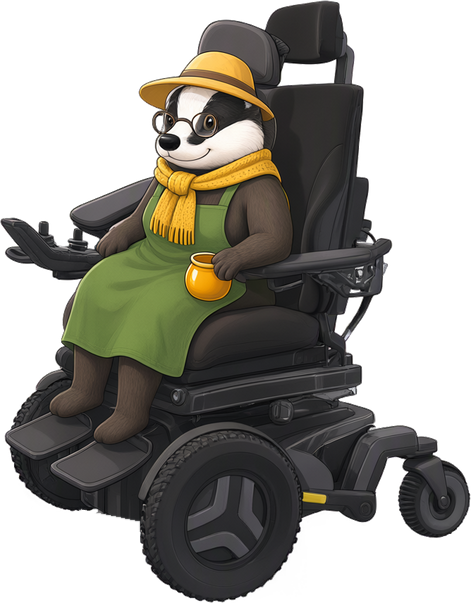
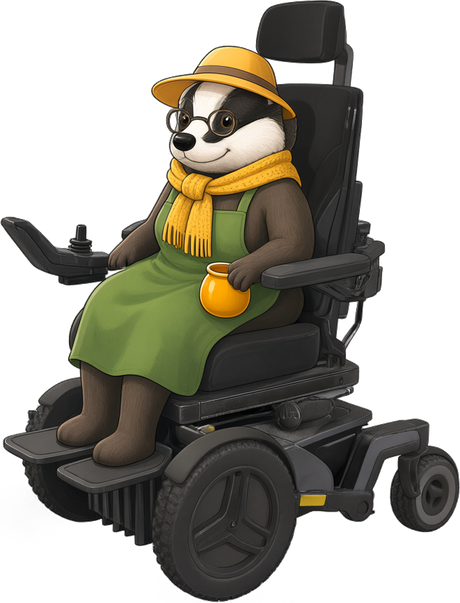
Матильда: перегенерирована с 3D без антиопрокидывателей — одна ручка джойстика, две подножки

diff --git a/art_tests/blender_render.py b/art_tests/blender_render.py
@@ -69,28 +69,40 @@ def import_glb(path, M, recolor=None):
 
 
 def move_parts(moves):
-    """Сдвиг части оригинальной модели (напр. подножка выше под короткие ноги): вершины с x, y (мм игры) в зоне,
-    кроме тех, что в круге колеса (not_wheel = cx, cy, R, |z| от), едут на d (мм игры)."""
+    """Сдвиг части оригинальной модели (напр. подножка выше под короткие ноги): вершины с x, y (мм игры) в зоне
+    (и |z| в az, если задано), кроме тех, что в круге колеса (not_wheel = cx, cy, R, |z| от), едут на d (мм игры);
+    delete=True — вершины зоны удаляются (напр. антиопрокидыватель). Порядок — как в списке."""
+    import bmesh
     for o in [o for o in sc.objects if o.type == "MESH"]:
         mw = o.matrix_world
-        n = len(o.data.vertices)
-        co = np.empty(n * 3)
-        o.data.vertices.foreach_get("co", co)
-        loc = np.c_[co.reshape(-1, 3), np.ones(n)]
-        w = loc @ np.asarray(mw).T
-        x, y, z = w[:, 0] * 1000, w[:, 2] * 1000, -w[:, 1] * 1000
         for mv in moves:
+            n = len(o.data.vertices)
+            co = np.empty(n * 3)
+            o.data.vertices.foreach_get("co", co)
+            w = np.c_[co.reshape(-1, 3), np.ones(n)] @ np.asarray(mw).T
+            x, y, z = w[:, 0] * 1000, w[:, 2] * 1000, -w[:, 1] * 1000
             sel = (x >= mv["x"][0]) & (x <= mv["x"][1]) & (y >= mv["y"][0]) & (y <= mv["y"][1])
+            if mv.get("az"):
+                sel &= (np.abs(z) >= mv["az"][0]) & (np.abs(z) <= mv["az"][1])
             if mv.get("not_wheel"):
                 cx, cy, R, zw = mv["not_wheel"]
                 sel &= ~((np.hypot(x - cx, y - cy) < R) & (np.abs(z) > zw))
+            if mv.get("delete"):
+                bm = bmesh.new()
+                bm.from_mesh(o.data)
+                bm.verts.ensure_lookup_table()
+                bmesh.ops.delete(bm, geom=[bm.verts[i] for i in np.nonzero(sel)[0]], context="VERTS")
+                bm.to_mesh(o.data)
+                bm.free()
+                print("удалено вершин:", int(sel.sum()), o.name)
+                continue
             dx, dy, dz = mv["d"]
             w[sel, 0] += dx / 1000
             w[sel, 1] -= dz / 1000
             w[sel, 2] += dy / 1000
             print("сдвинуто вершин:", int(sel.sum()), o.name)
-        new = w @ np.asarray(mw.inverted()).T
-        o.data.vertices.foreach_set("co", new[:, :3].ravel())
+            new = w @ np.asarray(mw.inverted()).T
+            o.data.vertices.foreach_set("co", new[:, :3].ravel())
         o.data.update()
 
 

diff --git a/art_tests/portrait_chair.py b/art_tests/portrait_chair.py
@@ -21,7 +21,9 @@ GLB = {"chair_m3.png": dict(key="m3", recolor=[0, 275, 28]), "chair_edge4.png": 
        "chair_whillc2.png": dict(key="whill"), "chair_focuscr.png": dict(key="fcr"),
        "chair_leshy.png": dict(key="x8", recolor=[28, 4, 26])}
 # подгонка коляски под персонажа (только для портрета): сдвиг части модели, мм игры (blender_render.move_parts)
-MOVE = {"chair_f5.png": [dict(x=[330, 620], y=[-50, 200], not_wheel=[215, 182, 195, 215], d=[0, 190, 0])]}  # Матильда: подножка выше
+MOVE = {"chair_f5.png": [   # Матильда: без передних антиопрокидывателей, подножка выше под короткие ноги
+    dict(x=[385, 520], y=[-20, 140], az=[235, 300], not_wheel=[215, 182, 188, 215], delete=True),
+    dict(x=[330, 620], y=[-50, 200], not_wheel=[215, 182, 195, 215], d=[0, 190, 0])]}
 if art in GLB:
     xf = json.load(open(os.path.join(HERE, "gen3d", GLB[art]["key"] + "_xform.json"), encoding="utf-8"))
     spec.update(glb=xf["src"], glb_matrix=xf["matrix"], recolor=GLB[art].get("recolor"), move=MOVE.get(art))

diff --git a/AGENTS.md b/AGENTS.md
@@ -313,10 +313,11 @@ python i18n_work/build_lang.py       # перевод полон
   `blender_render.py` — `move` (сдвиг части оригинальной модели: зона x/y в мм игры, кроме круга колеса), в
   `portrait_chair.py` MOVE — у F5 подножка поднята на 190 мм под короткие ноги; рендер ракурса портрета;
   `portrait_reseat.py badger_new` — FREE_POSE: от старого портрета только облик (поза старого — ноги на «ступеньке» —
-  и давала лишние подножки), персонаж берётся из art_tests/retired/. Выбран seed 22: ровно две подножки, по ноге на
-  каждой, колёса целые. Маленькое колёсико (антиопрокидыватель) под подножками убрано по просьбе владельца — срез по
-  нижней кромке кронштейна между шинами (прозрачность). (assets/client_f5.png, art_tests/blender_render.py,
-  portrait_chair.py, portrait_reseat.py)
+  и давала лишние подножки), персонаж берётся из art_tests/retired/. Владелец: убрать маленькое колёсико снизу,
+  джойстик был кривой (две ручки) → в 3D удалены передние антиопрокидыватели (`move` с `delete`, зона x≥385, y<140,
+  |z| 235–300), в промпте — ОДИН пульт с ОДНОЙ прямой ручкой, лапа рядом, а не на нём. Выбран seed 707 (владелец):
+  одна ручка, две подножки, колёса круглые. Брак генераций ~50% (двойные подножки) — смотреть каждую вблизи.
+  (assets/client_f5.png, art_tests/blender_render.py, portrait_chair.py, portrait_reseat.py)
 
 - 2026-10-22 — Claude (Opus 5.5) — **портреты клиентов в новых колясках** (Мора, Зикс, Матильда, Голем, Сайра, Леший,
   Горыныч, Агата с внуком, Агата в Кабинете посадки): `art_tests/portrait_chair.py <chair> <yaw>` — рендер новой
